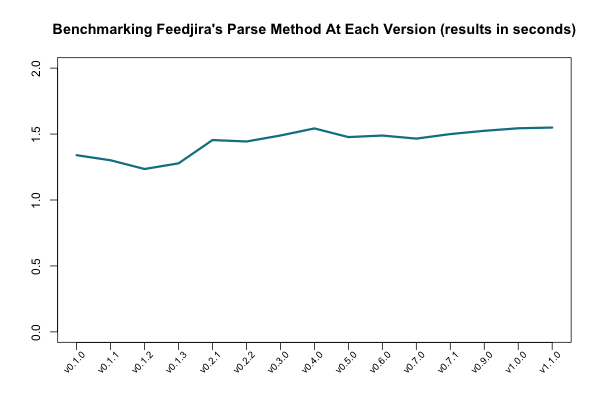
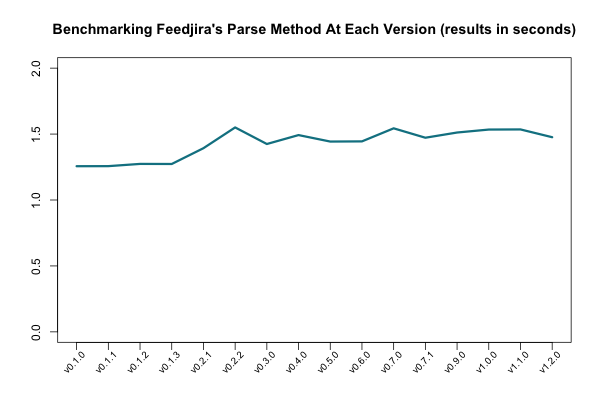
Add parse benchmarks for v1.2

diff --git a/source/benchmarks.md b/source/benchmarks.md
@@ -38,21 +38,22 @@ stays fast, so its benchmarked across each version of the gem:
 
 ```
             user     system      total        real
-v0.1.0  1.330000   0.000000   1.330000 (  1.339773)
-v0.1.1  1.300000   0.000000   1.300000 (  1.301276)
-v0.1.2  1.230000   0.000000   1.230000 (  1.235078)
-v0.1.3  1.270000   0.010000   1.280000 (  1.278005)
-v0.2.1  1.450000   0.000000   1.450000 (  1.454689)
-v0.2.2  1.440000   0.000000   1.440000 (  1.443726)
-v0.3.0  1.480000   0.000000   1.480000 (  1.489133)
-v0.4.0  1.530000   0.010000   1.540000 (  1.542944)
-v0.5.0  1.480000   0.000000   1.480000 (  1.477226)
-v0.6.0  1.490000   0.000000   1.490000 (  1.488935)
-v0.7.0  1.460000   0.010000   1.470000 (  1.465545)
-v0.7.1  1.500000   0.010000   1.510000 (  1.500025)
-v0.9.0  1.530000   0.000000   1.530000 (  1.524827)
-v1.0.0  1.540000   0.000000   1.540000 (  1.543938)
-v1.1.0  1.540000   0.010000   1.550000 (  1.549528)
+v0.1.0  1.250000   0.010000   1.260000 (  1.256293)
+v0.1.1  1.250000   0.000000   1.250000 (  1.256787)
+v0.1.2  1.280000   0.000000   1.280000 (  1.273739)
+v0.1.3  1.260000   0.000000   1.260000 (  1.273136)
+v0.2.1  1.400000   0.000000   1.400000 (  1.392912)
+v0.2.2  1.540000   0.000000   1.540000 (  1.550372)
+v0.3.0  1.420000   0.000000   1.420000 (  1.424670)
+v0.4.0  1.490000   0.000000   1.490000 (  1.492396)
+v0.5.0  1.440000   0.000000   1.440000 (  1.443265)
+v0.6.0  1.440000   0.000000   1.440000 (  1.444594)
+v0.7.0  1.540000   0.000000   1.540000 (  1.543593)
+v0.7.1  1.470000   0.000000   1.470000 (  1.472305)
+v0.9.0  1.500000   0.000000   1.500000 (  1.511782)
+v1.0.0  1.530000   0.000000   1.530000 (  1.534259)
+v1.1.0  1.530000   0.000000   1.530000 (  1.535290)
+v1.2.0  1.470000   0.000000   1.470000 (  1.476197)
 ```
 
 [![chart.png](parse-benchmark.png)](images/parse-benchmark.png)
